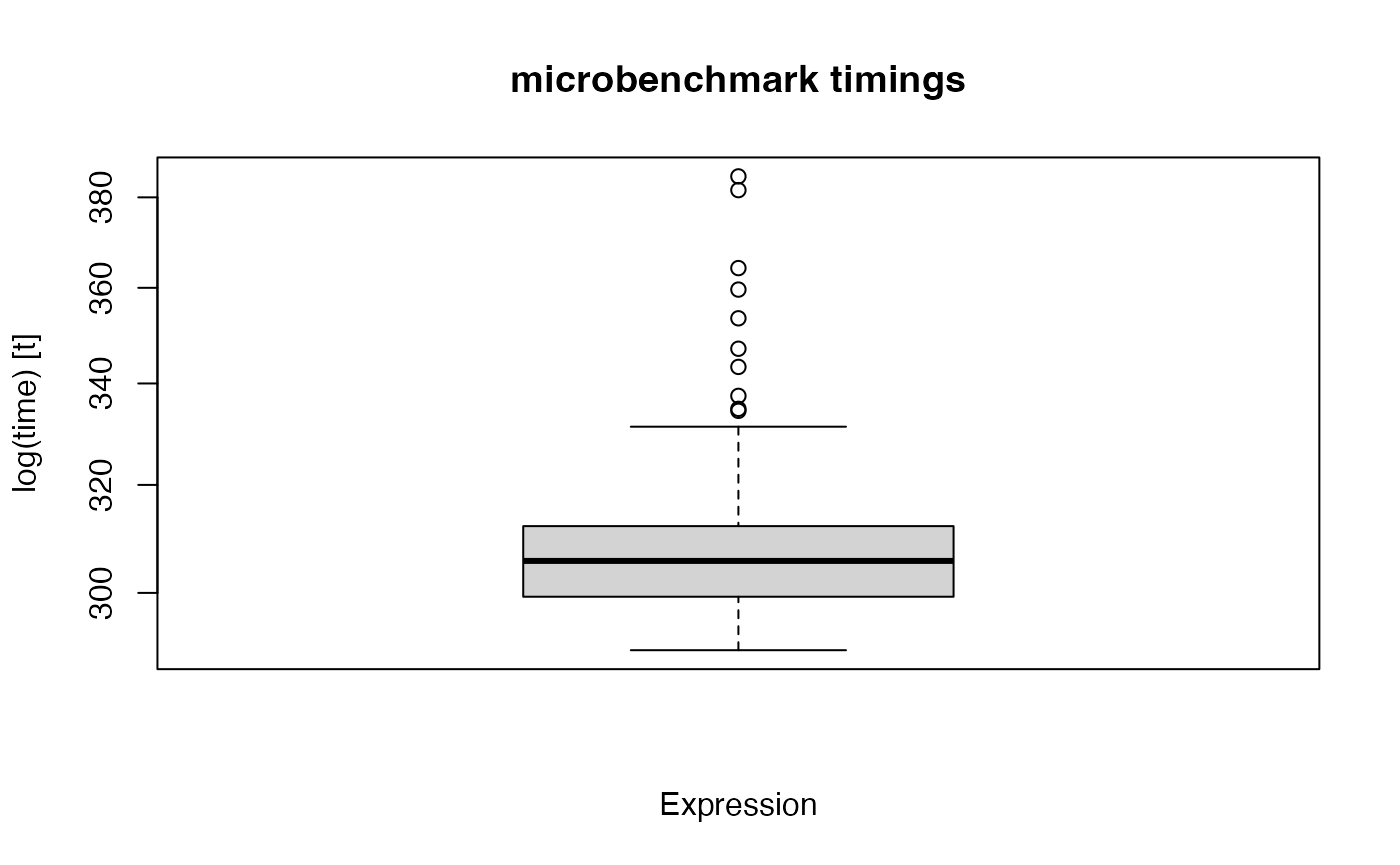
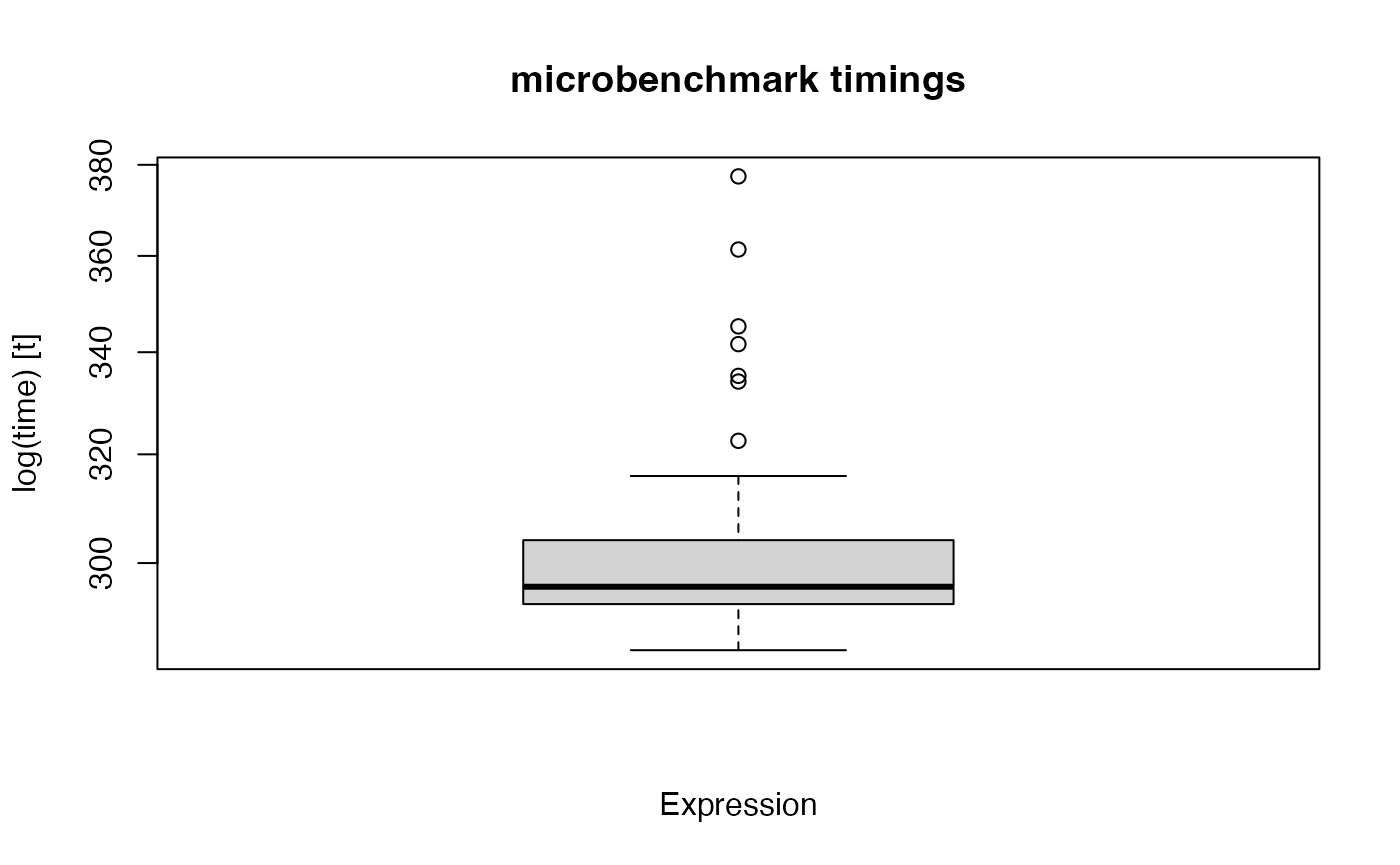
tweak readme and rerun docs

diff --git a/docs/index.html b/docs/index.html
@@ -92,8 +92,8 @@
 <div class="section level2">
 <h2 id="duckdb">DuckDB<a class="anchor" aria-label="anchor" href="#duckdb"></a>
 </h2>
-<p>On first use PUMF data is imported into DuckDB. To see the data in the RStudio (or Positron) Connections Pane, set the following option or add this to your .Rprofile:</p>
-<pre><code><span><span class="fu"><a href="https://rdrr.io/r/base/options.html" class="external-link">options</a></span><span class="op">(</span><span class="st">"duckdb.enable_rstudio_connection_pane"</span> <span class="op">=</span> <span class="cn">TRUE</span><span class="op">)</span></span></code></pre>
+<p>On first use PUMF data is imported into DuckDB. By default a PUMF DuckDB connection will be shown in the RStudio (or Positron) Connections Pane once a connection is opened, you control the default behaviour by setting the <code>canpumf.register_connection</code> optin in your .Rprofile:</p>
+<pre><code><span><span class="fu"><a href="https://rdrr.io/r/base/options.html" class="external-link">options</a></span><span class="op">(</span><span class="st">"canpumf.register_connection"</span> <span class="op">=</span> <span class="cn">TRUE</span><span class="op">)</span></span></code></pre>
 </div>
 <div class="section level2">
 <h2 id="basic-usage">Basic usage<a class="anchor" aria-label="anchor" href="#basic-usage"></a>

diff --git a/docs/index.md b/docs/index.md
@@ -34,11 +34,12 @@ only.
 
 ## DuckDB
 
-On first use PUMF data is imported into DuckDB. To see the data in the
-RStudio (or Positron) Connections Pane, set the following option or add
-this to your .Rprofile:
+On first use PUMF data is imported into DuckDB. By default a PUMF DuckDB
+connection will be shown in the RStudio (or Positron) Connections Pane
+once a connection is opened, you control the default behaviour by
+setting the `canpumf.register_connection` optin in your .Rprofile:
 
-    options("duckdb.enable_rstudio_connection_pane" = TRUE)
+    options("canpumf.register_connection" = TRUE)
 
 ## Basic usage
 

diff --git a/README.md b/README.md
@@ -26,9 +26,10 @@ PUMF data can be large and should be cached locally. Set the `canpumf.cache_path
 
 ## DuckDB
 
-On first use PUMF data is imported into DuckDB. To see the data in the RStudio (or Positron) Connections Pane, set the following option or add this to your .Rprofile:
+On first use PUMF data is imported into DuckDB. By default a PUMF DuckDB connection will be shown in the RStudio (or Positron) Connections Pane once a connection is opened, you control the default behaviour by setting the `canpumf.register_connection` optin in your .Rprofile:
+
 ```
-options("duckdb.enable_rstudio_connection_pane" = TRUE)
+options("canpumf.register_connection" = TRUE)
 ```
 
 ## Basic usage